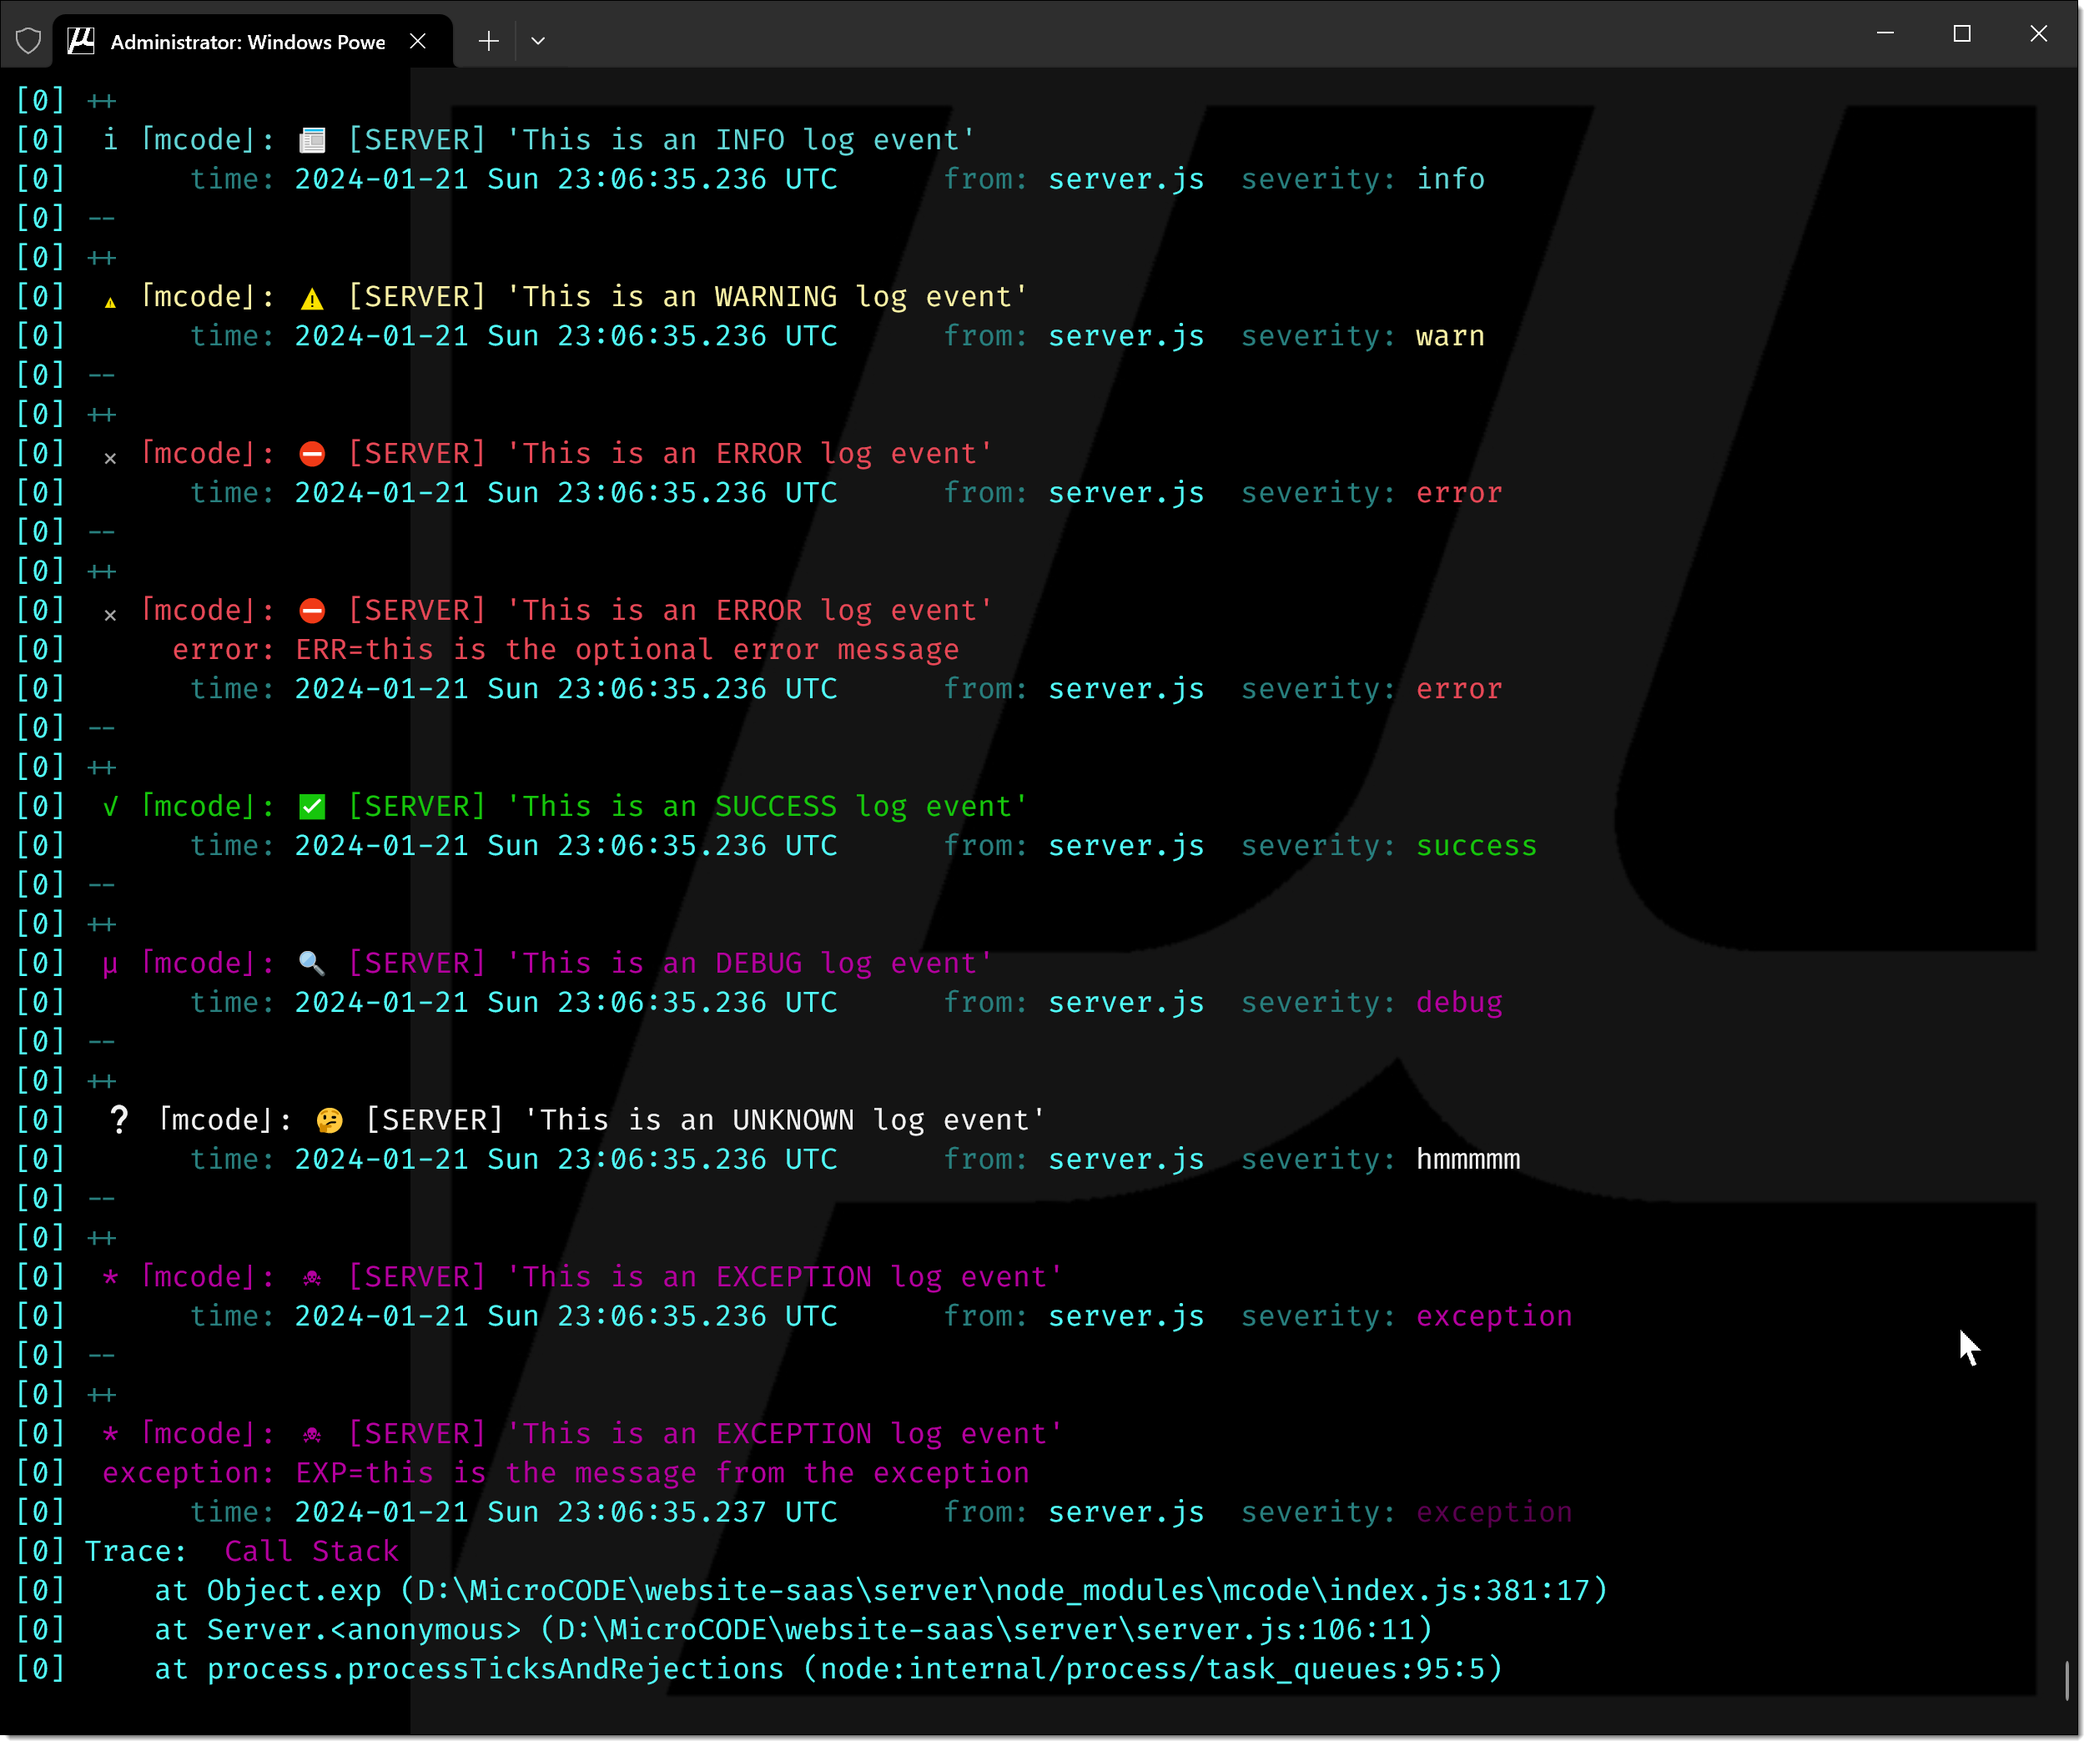
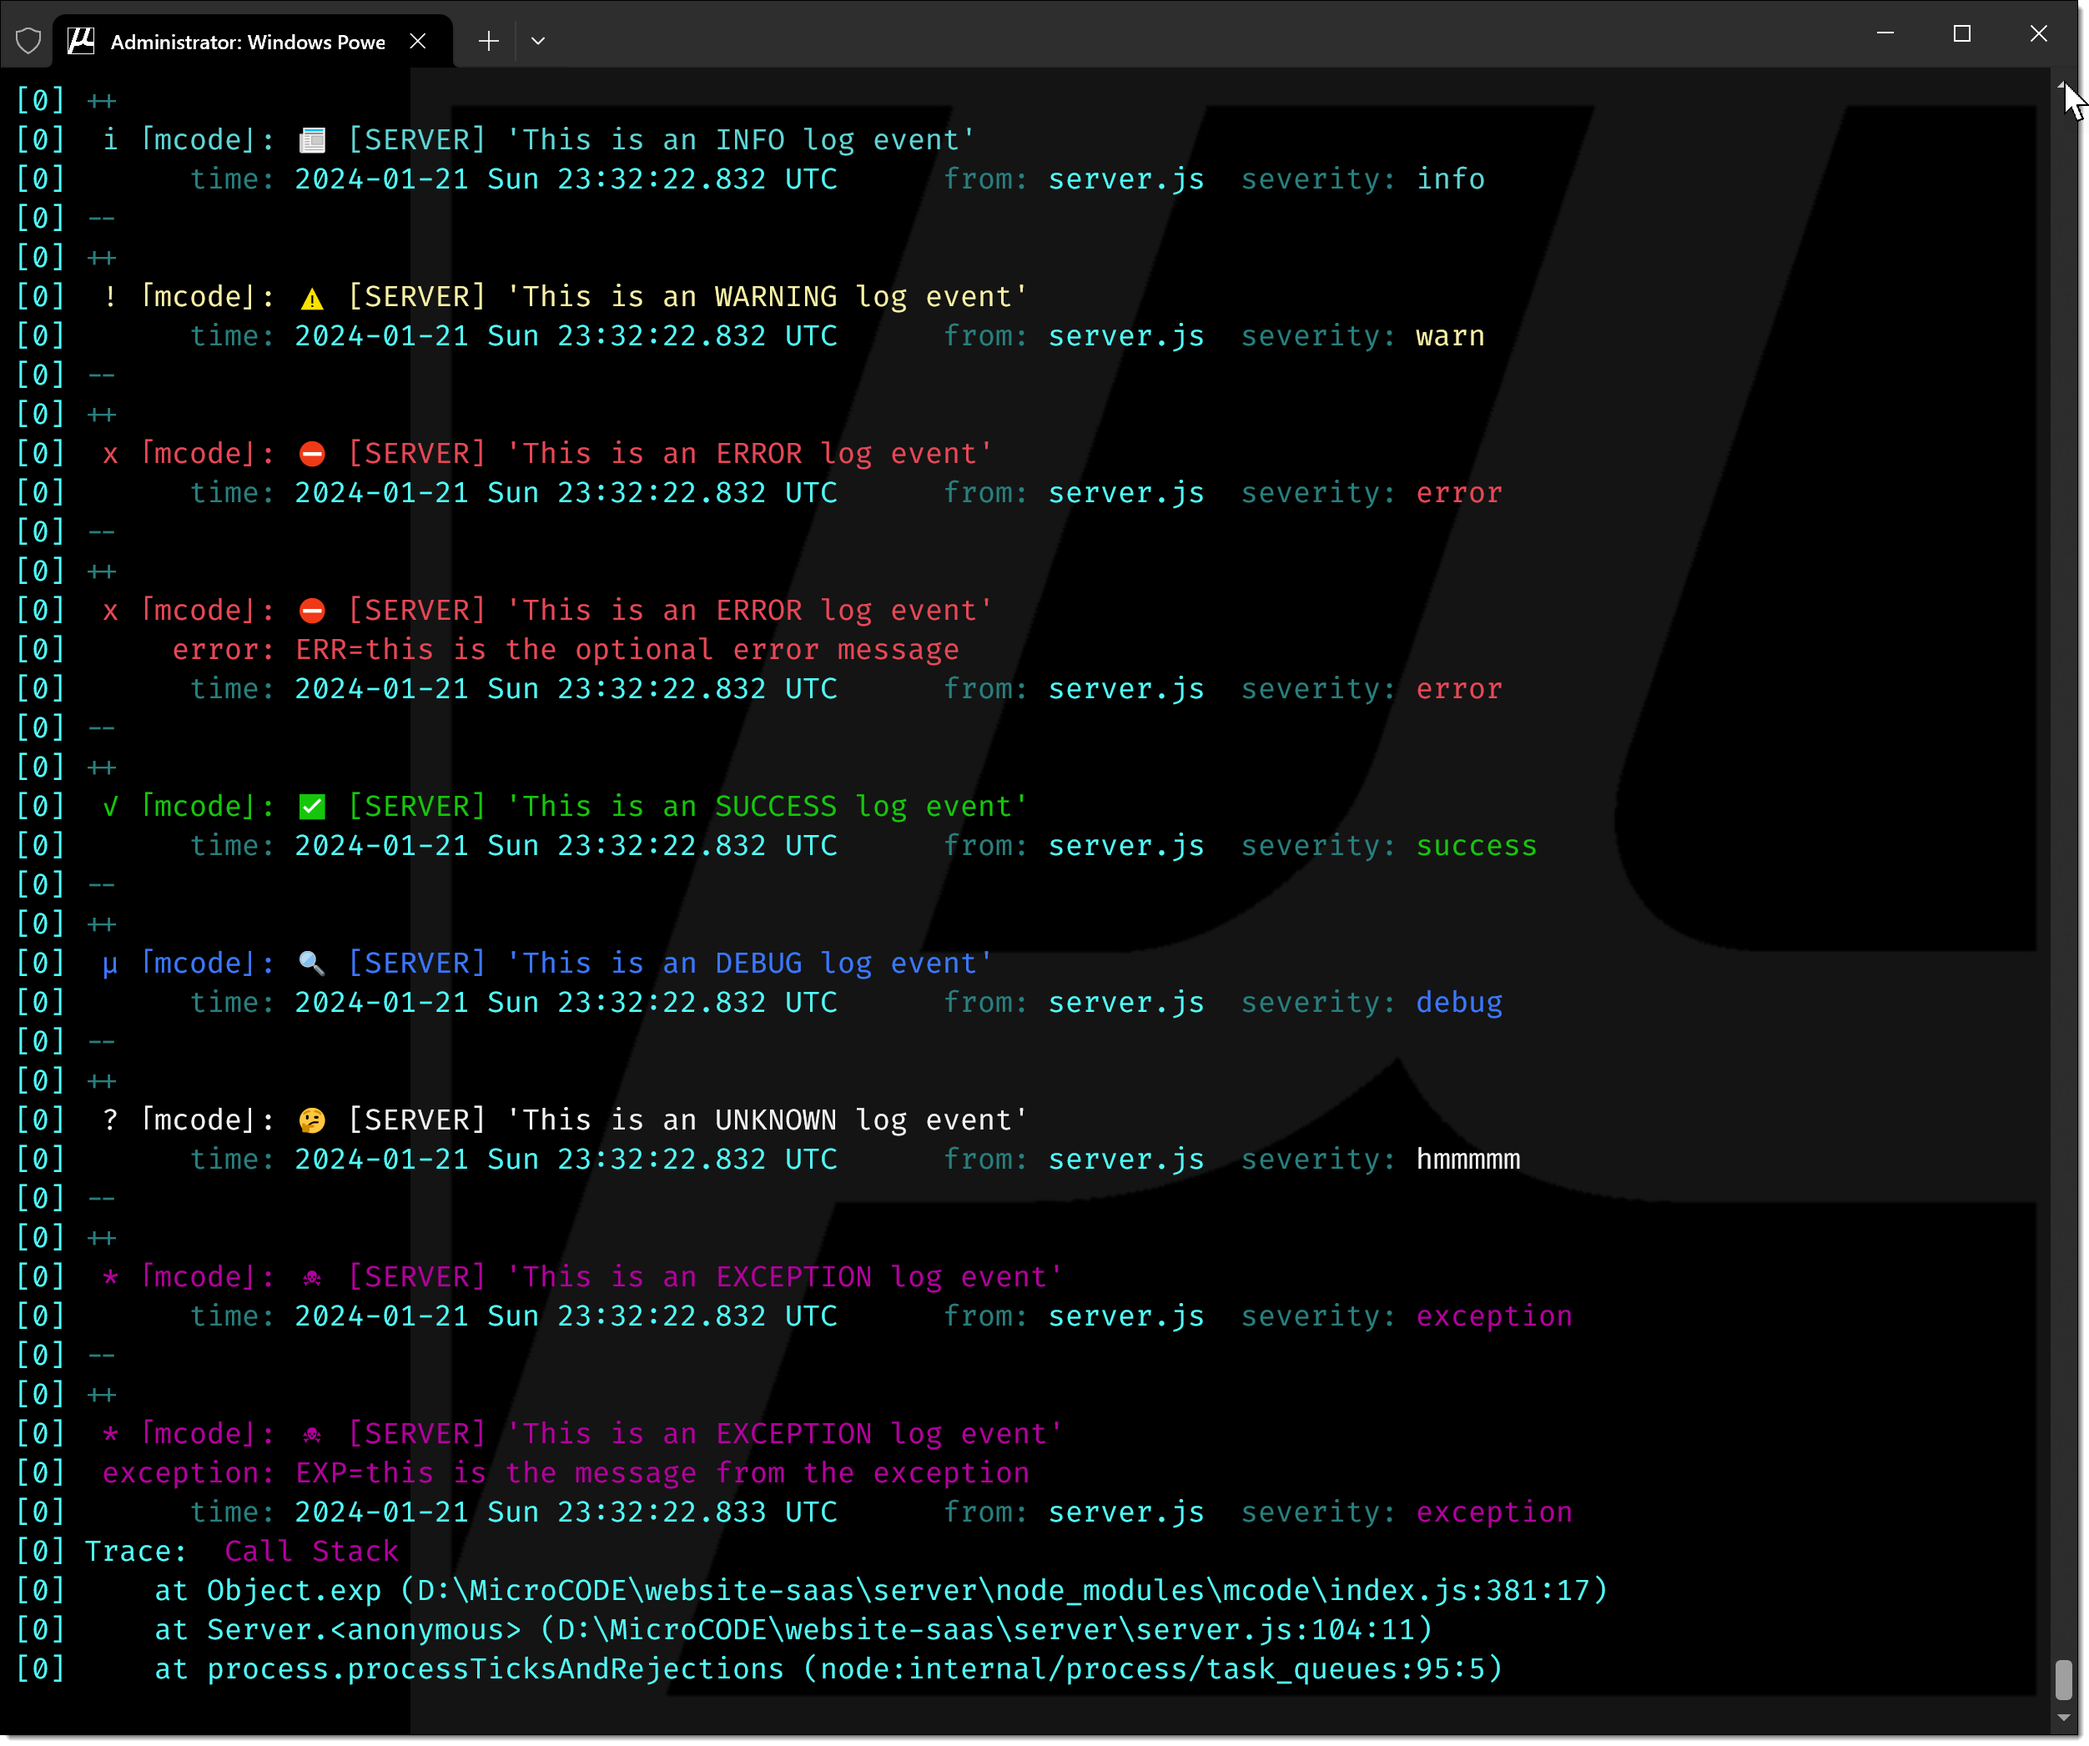
Minor exp() coloring correctoins, and debug --> blue.

diff --git a/index.js b/index.js
@@ -201,7 +201,7 @@ const mcode = {
         dead: "\x1b[95m",  // magenta
         info: "\x1b[96m",  // cyan
         hmmm: "\x1b[97m",  // white
-        dbug: "\x1b[95m",  // Bright Magenta
+        dbug: "\x1b[94m",  // Bright Magenta
 
         // custom JSON colors
         key: "\x1b[96m",  // cyan - key name
@@ -283,13 +283,13 @@ const mcode = {
             case 'warning':
                 sevText = 'warn';
                 sevColor += vt.warn;
-                entry += `${vt.warn} ⚠ ｢mcode｣: ⚠ [${moduleName}] '${logifiedMessage}'`;
+                entry += `${vt.warn} ! ｢mcode｣: ⚠ [${moduleName}] '${logifiedMessage}'`;
                 break;
             case 'e':
             case 'error':
                 sevText = 'error';
                 sevColor += vt.errr;
-                entry += `${vt.errr} ✖ ｢mcode｣: ⛔ [${moduleName}] '${logifiedMessage}'`;
+                entry += `${vt.errr} x ｢mcode｣: ⛔ [${moduleName}] '${logifiedMessage}'`;
                 break;
             case 'x':
             case 'exception':
@@ -313,7 +313,7 @@ const mcode = {
             default:
                 sevText = 'hmmmmm';
                 sevColor += vt.hmmm;
-                entry += `${vt.hmmm} ❔ ｢mcode｣: 🤔 [${moduleName}] '${logifiedMessage}'`;
+                entry += `${vt.hmmm} ? ｢mcode｣: 🤔 [${moduleName}] '${logifiedMessage}'`;
                 break;
         }
         entry += '\n';
@@ -327,7 +327,7 @@ const mcode = {
         entry +=
             `${vt.reset}${vt.dim}      time: ${vt.reset}${mcode.timeStamp()}` +
             `${vt.reset}${vt.dim}      from: ${vt.reset}${source}` +
-            `${vt.reset}${vt.dim}  severity: ${sevColor}${sevText}\n` +
+            `${vt.reset}${vt.dim}  severity: ${vt.reset}${sevColor}${sevText}\n` +
             `${vt.reset}${vt.dim}--${vt.reset}`;
 
         console.log(entry);
@@ -375,7 +375,7 @@ const mcode = {
             `${vt.reset}${vt.dead} exception: ${vt.dead}${exception}${vt.reset}\n` +
             `${vt.reset}${vt.dim}      time: ${vt.reset}${mcode.timeStamp()}` +
             `${vt.reset}${vt.dim}      from: ${vt.reset}${source}` +
-            `${vt.reset}${vt.dim}  severity: ${vt.dead}exception${vt.dead}`;
+            `${vt.reset}${vt.dim}  severity: ${vt.reset}${vt.dead}exception${vt.dead}`;
 
         console.log(entry);
         console.trace(`${vt.dead} Call Stack`);
